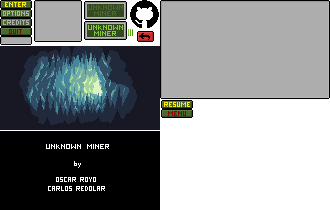
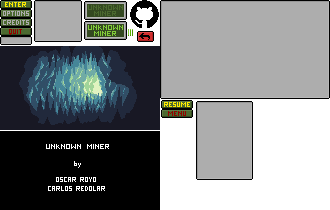
pause menu done

Changed region(s): [[0.5758, 0.4571, 0.7879, 0.8571]]

diff --git a/Motor2D/j1Scene.cpp b/Motor2D/j1Scene.cpp
@@ -121,7 +121,7 @@ bool j1Scene::PostUpdate()
 	bool ret = true;
 	//Input for quiting
 	if (App->input->GetKey(SDL_SCANCODE_ESCAPE) == KEY_DOWN)
-		if (!menu) { CreateUI(); player->input = false; menu = true; }
+		if (!menu && !pause_menu) { CreatePauseMenu(); player->input = false; menu = false; pause_menu = true; }
 	if(App->input->GetKey(SDL_SCANCODE_F4) == KEY_DOWN || quit)
 		ret = false;
 
@@ -278,6 +278,8 @@ bool j1Scene::CreateUI() {
 
 	App->gui->ClearUI();
 
+	menu = true;
+
 	int window_pos_x = 260;
 	int window_pos_y = 10;
 
@@ -301,6 +303,7 @@ void j1Scene::OnClick(UI* element) {
 			App->gui->ClearUI();
 			player->input = true;
 			menu = false;
+			LOG("enter");
 		}
 		else if (button->name == "OPTIONS") {
 			App->gui->ClearUI();
@@ -314,8 +317,29 @@ void j1Scene::OnClick(UI* element) {
 		}
 		else if (button->name == "BACK") {
 			App->gui->ClearUI();
-			CreateUI();
+			if (menu)
+			{
+				CreateUI();
+			}
+			else
+			{
+				CreatePauseMenu();
+			}
+			
 			LOG("back");
+		}
+		else if (button->name == "RESUME") {
+			App->gui->ClearUI();
+			player->input = true;
+			menu = false;
+			pause_menu = false;
+			LOG("resume");
+		}
+		else if (button->name == "MENU") {
+			App->gui->ClearUI();
+			CreateUI();
+			
+			LOG("menu");
 		}
 		else if (button->name == "QUIT") {
 			quit = true;
@@ -329,10 +353,18 @@ bool j1Scene::CreateOptions() {
 
 	int window_pos_x = 70;
 	int window_pos_y = 40;
-
-	image = App->gui->CreateUIElement(Type::IMAGE, nullptr, { 0, 0, 320, 180 }, { 0, 46, 160, 84 });
-	window = App->gui->CreateUIElement(Type::WINDOW, nullptr, { window_pos_x, window_pos_y, 170, 99 }, { 160, 0, 170, 99 });
-	backButton = App->gui->CreateUIElement(Type::BUTTON, nullptr, { 10, 10, 17, 11 }, { 137, 31, 17, 11 }, "BACK", { 137, 31, 17, 11 }, { 137, 31, 17, 11 }, false, { 0,0,0,0 }, this);
+	if (menu)
+	{
+		image = App->gui->CreateUIElement(Type::IMAGE, nullptr, { 0, 0, 320, 180 }, { 0, 46, 160, 84 });
+		window = App->gui->CreateUIElement(Type::WINDOW, nullptr, { window_pos_x, window_pos_y, 170, 99 }, { 160, 0, 170, 99 });
+		backButton = App->gui->CreateUIElement(Type::BUTTON, nullptr, { 10, 10, 17, 11 }, { 137, 31, 17, 11 }, "BACK", { 137, 31, 17, 11 }, { 137, 31, 17, 11 }, false, { 0,0,0,0 }, this);
+	}
+	else
+	{
+		window = App->gui->CreateUIElement(Type::WINDOW, nullptr, { window_pos_x, window_pos_y, 170, 99 }, { 160, 0, 170, 99 });
+		backButton = App->gui->CreateUIElement(Type::BUTTON, nullptr, { 10, 10, 17, 11 }, { 137, 31, 17, 11 }, "BACK", { 137, 31, 17, 11 }, { 137, 31, 17, 11 }, false, { 0,0,0,0 }, this);
+	}
+	
 
 	return true;
 }
@@ -346,6 +378,21 @@ bool j1Scene::CreateCredits() {
 
 	image = App->gui->CreateUIElement(Type::IMAGE, nullptr, { 0, 0, 320, 180 }, { 0, 131, 160, 84 });
 	backButton = App->gui->CreateUIElement(Type::BUTTON, nullptr, { 10, 10, 17, 11 }, { 137, 31, 17, 11 }, "BACK", { 137, 31, 17, 11 }, { 137, 31, 17, 11 }, false, { 0,0,0,0 }, this);
+
+	return true;
+}
+
+bool j1Scene::CreatePauseMenu() {
+
+	App->gui->ClearUI();
+
+	int window_pos_x = 130;
+	int window_pos_y = 45;
+
+	window = App->gui->CreateUIElement(Type::WINDOW, nullptr, { window_pos_x, window_pos_y, 57, 79 }, { 196, 101, 57, 79 });
+	resumeButton = App->gui->CreateUIElement(Type::BUTTON, window, { window_pos_x + 9, window_pos_y + 15, 40, 12 }, { 161, 100, 32, 9 }, "RESUME", { 161, 100, 32, 9 }, { 161, 100, 32, 9 }, false, { 161, 100, 32, 9 }, this);
+	optionsButton = App->gui->CreateUIElement(Type::BUTTON, window, { window_pos_x + 13, window_pos_y + 40, 32, 9 }, { 0, 9, 32, 9 }, "OPTIONS", { 0, 9, 32, 9 }, { 0, 9, 32, 9 }, false, { 0,0,0,0 }, this);
+	menuButton = App->gui->CreateUIElement(Type::BUTTON, window, { window_pos_x + 13, window_pos_y + 55, 32, 9 }, { 161, 109, 32, 9 }, "MENU", { 161, 109, 32, 9 }, { 161, 109, 32, 9 }, false, { 0,0,0,0 }, this);
 
 	return true;
 }

diff --git a/Motor2D/j1Scene.h b/Motor2D/j1Scene.h
@@ -47,6 +47,7 @@ public:
 	bool CreateUI();
 	bool CreateOptions();
 	bool CreateCredits();
+	bool CreatePauseMenu();
 
 	Collider* finishCol;
 	int level_Loaded;
@@ -80,6 +81,7 @@ private:
 
 	//UI	
 	bool menu = true;
+	bool pause_menu = false;
 	bool quit = false;
 	UI* window = nullptr;
 	UI* image = nullptr;
@@ -89,6 +91,8 @@ private:
 	UI* creditsButton = nullptr;
 	UI* quitButton = nullptr;
 	UI* backButton = nullptr;
+	UI* resumeButton = nullptr;
+	UI* menuButton = nullptr;
 };
 
 #endif // __j1SCENE_H__
